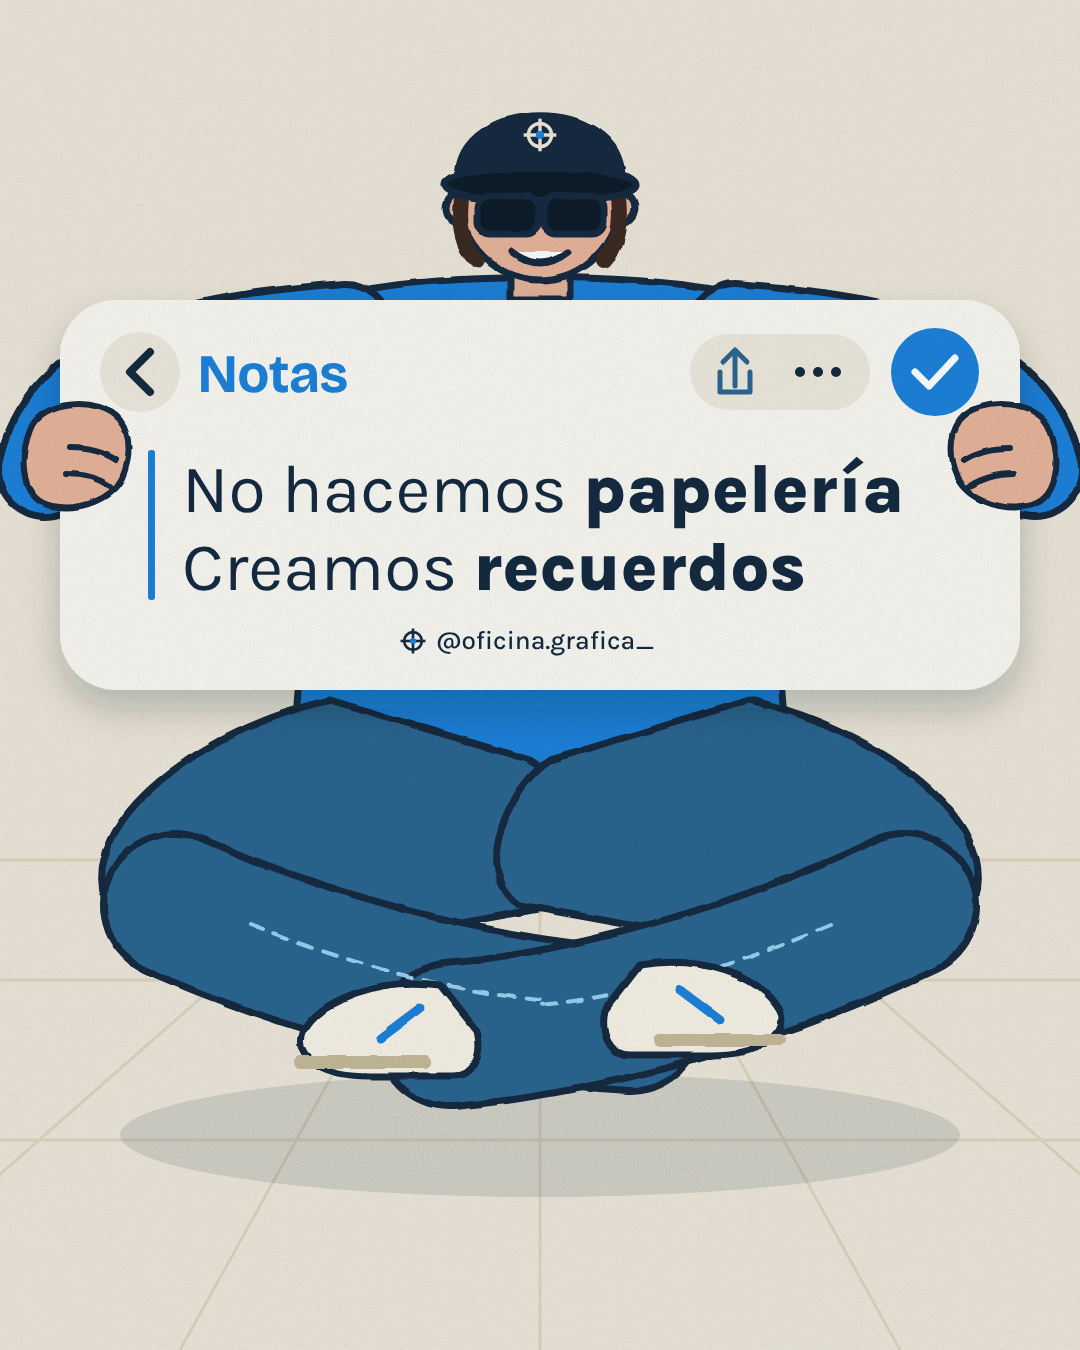
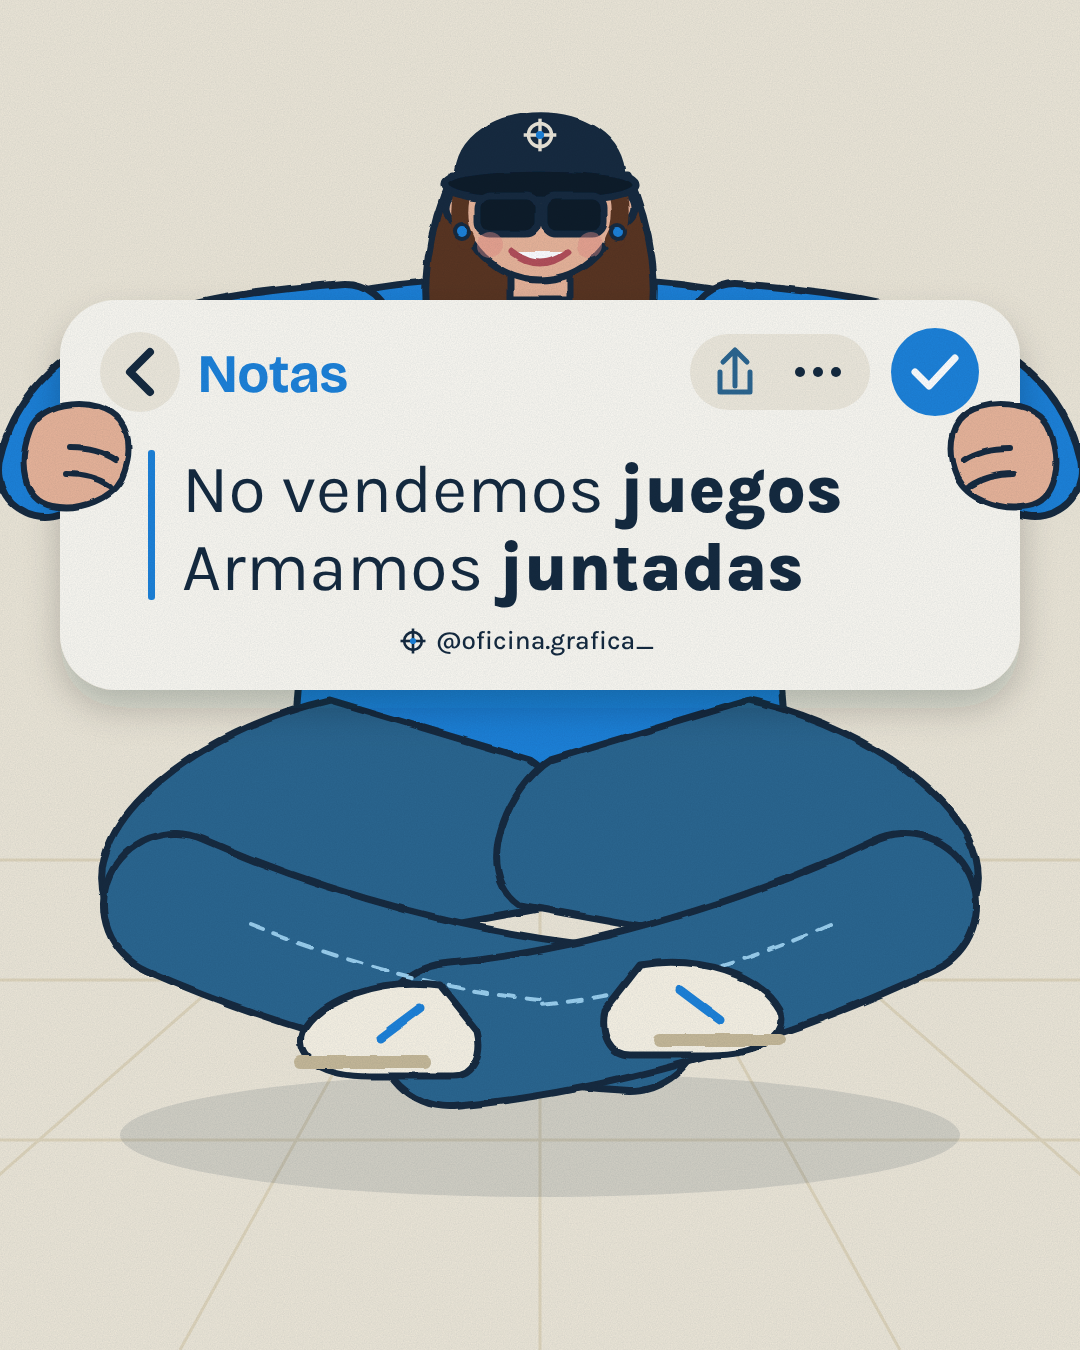
Redes: personaje del cartel como chica y nueva frase
Claude-Session: https://claude.ai/code/session_01FGxw9aPArw9pn3yxwBbtRR

Changed region(s): [[0.1528, 0.3422, 0.8556, 0.4667], [0.3667, 0.1244, 0.6111, 0.2489]]

diff --git a/redes/cartel/posteo.html b/redes/cartel/posteo.html
@@ -58,18 +58,21 @@
     <path d="M735 330C860 340 1010 360 1035 470" fill="none" stroke="#142A40" stroke-width="100"/>
     <path d="M735 330C860 340 1010 360 1035 470" fill="none" stroke="#1C82D9" stroke-width="86"/>
 
-    <!-- cabeza -->
+    <!-- cabeza: pelo largo detrás de la cara, que cae sobre los hombros -->
+    <path d="M452 175C425 235 420 300 432 330L648 330C660 300 655 235 628 175Z" fill="#5A3424"/>
     <rect x="510" y="250" width="60" height="50" fill="#E9B49A"/>
     <circle cx="462" cy="208" r="17" fill="#E9B49A"/><circle cx="618" cy="208" r="17" fill="#E9B49A"/>
     <circle cx="540" cy="200" r="80" fill="#E9B49A"/>
-    <path d="M462 190c-6 40 4 60 14 70M618 190c6 40-4 60-14 70" fill="none" stroke="#3B2A22" stroke-width="16"/>
+    <path d="M466 176c-10 30-8 50 0 64M614 176c10 30 8 50 0 64" fill="none" stroke="#5A3424" stroke-width="18"/>
+    <circle cx="462" cy="232" r="7" fill="#1C82D9" stroke-width="4"/><circle cx="618" cy="232" r="7" fill="#1C82D9" stroke-width="4"/>
     <!-- gorra con la mira -->
     <path d="M458 178C458 95 622 95 622 178Z" fill="#142A40"/>
     <path d="M450 178C470 165 610 165 630 178C650 190 620 202 540 200C460 202 430 190 450 178Z" fill="#0A1B2B"/>
     <!-- anteojos y sonrisa -->
     <rect x="478" y="196" width="60" height="38" rx="12" fill="#0A1B2B"/>
     <rect x="544" y="196" width="60" height="38" rx="12" fill="#0A1B2B"/>
-    <path d="M512 252q28 22 56 0" fill="#fff"/>
+    <circle cx="490" cy="245" r="13" fill="#E58C86" stroke="none" opacity=".45"/><circle cx="590" cy="245" r="13" fill="#E58C86" stroke="none" opacity=".45"/>
+    <path d="M512 252q28 22 56 0" fill="#fff" stroke="#B4505A"/>
   </g>
   <g transform="translate(523 118)" color="#EEE7D8"><svg width="34" height="34"><use href="#mira"/></svg></g>
 
@@ -87,8 +90,8 @@
     <circle cx="935" cy="372" r="44" fill="#1C82D9"/>
     <path d="M915 372l14 14 26-28" fill="none" stroke="#fff" stroke-width="7" stroke-linecap="round" stroke-linejoin="round"/>
     <rect x="148" y="450" width="7" height="150" rx="3" fill="#1C82D9"/>
-    <text class="karla" x="182" y="512" font-size="68" fill="#142A40" font-weight="400">No hacemos <tspan font-weight="800">papelería</tspan></text>
-    <text class="karla" x="182" y="590" font-size="68" fill="#142A40" font-weight="400">Creamos <tspan font-weight="800">recuerdos</tspan></text>
+    <text class="karla" x="182" y="512" font-size="68" fill="#142A40" font-weight="400">No vendemos <tspan font-weight="800">juegos</tspan></text>
+    <text class="karla" x="182" y="590" font-size="68" fill="#142A40" font-weight="400">Armamos <tspan font-weight="800">juntadas</tspan></text>
     <g transform="translate(400 628)">
       <svg width="26" height="26" color="#142A40"><use href="#mira"/></svg>
       <text class="karla" x="36" y="21" font-size="26" fill="#142A40" font-weight="500">@oficina.grafica_</text>
